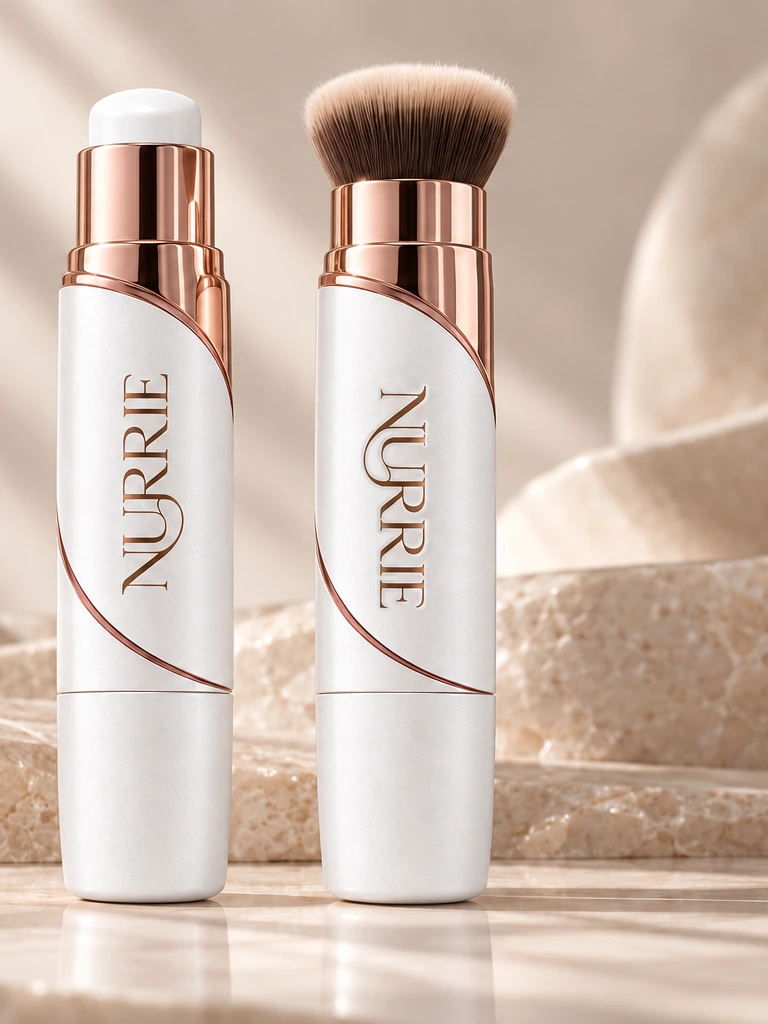
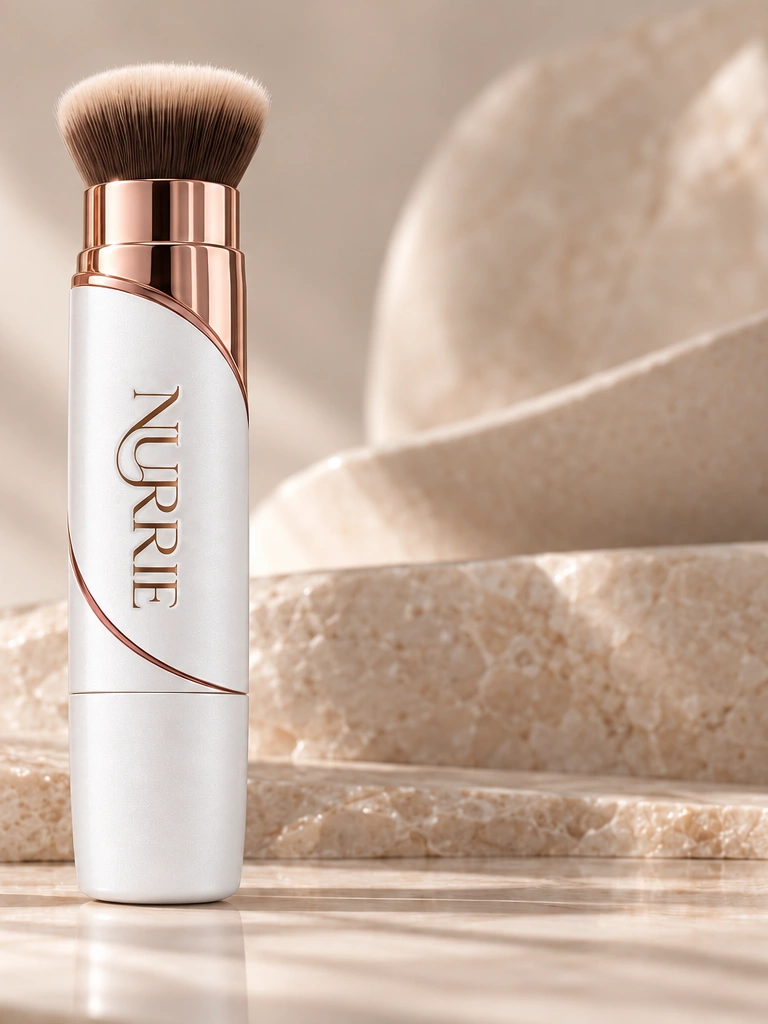
fix: resolve hero 3D visibility, separate ritual macro photography, and synchronize turned-down brush branding

diff --git a/components/NurrieHome.tsx b/components/NurrieHome.tsx
@@ -136,13 +136,13 @@ export default function NurrieHome() {
 
           <section className="ritual-editorial" id="the-ritual" aria-labelledby="ritual-heading">
             <div className="ritual-portrait" data-ritual={ritual}>
-              <div className={`ritual-frame ${ritual === 0 ? "is-current" : ""}`} aria-hidden={ritual !== 0}>
+              <div className={`ritual-frame ritual-formula ${ritual === 0 ? "is-current" : ""}`} aria-hidden={ritual !== 0}>
                 <img src="/images/ritual-swipe.webp" width={768} height={1024} alt="NURRIE white colour-changing foundation stick with rose-gold collar" loading="lazy" />
               </div>
-              <div className={`ritual-frame ${ritual === 1 ? "is-current" : ""}`} aria-hidden={ritual !== 1}>
-                <img src="/images/ritual-blend.webp" width={768} height={1024} alt="NURRIE built-in blending brush with rose-gold collar" loading="lazy" />
+              <div className={`ritual-frame ritual-brush ${ritual === 1 ? "is-current" : ""}`} aria-hidden={ritual !== 1}>
+                <img src="/images/ritual-blend.webp" width={768} height={1024} alt="NURRIE built-in blending brush with rose-gold collar and turned-down branding" loading="lazy" />
               </div>
-              <div className={`ritual-frame ${ritual === 2 ? "is-current" : ""}`} aria-hidden={ritual !== 2}>
+              <div className={`ritual-frame ritual-be ${ritual === 2 ? "is-current" : ""}`} aria-hidden={ritual !== 2}>
                 <img
                   src="/images/editorial-portrait-cocoa.webp"
                   srcSet="/images/editorial-portrait-cocoa-640.webp 640w, /images/editorial-portrait-cocoa.webp 1122w"

diff --git a/app/living.css b/app/living.css
@@ -23,34 +23,13 @@
   transform: translateZ(0);
 }
 
-/* Atmospheric photographic emergence: seamless crossfade with luxury vignette */
-.cover-portrait {
-  position: absolute;
-  inset: 0;
-  opacity: var(--portrait-opacity, 0);
-  transition: opacity 0.4s ease-out;
-  z-index: 0;
-  pointer-events: none;
+/* Pure Architectural 3D Living Stage: Luminous Ivory Ground with Radiant Focus */
+.living-stage {
+  position: relative;
+  width: 100vw;
+  height: 100vh;
+  background: radial-gradient(circle at 55% 45%, #faf8f5 0%, #f2eee7 65%, #eae3d8 100%);
   overflow: hidden;
-}
-
-.cover-portrait img {
-  width: 100%;
-  height: 100%;
-  object-fit: cover;
-  object-position: 80% center;
-  transform: scale(calc(1.06 - var(--cover-progress) * 0.05));
-  will-change: transform;
-  filter: brightness(0.92) contrast(1.04);
-}
-
-.cover-portrait::after {
-  content: "";
-  position: absolute;
-  inset: 0;
-  background: radial-gradient(circle at 75% 50%, rgba(52, 35, 28, 0.12) 0%, rgba(52, 35, 28, 0.75) 100%),
-    linear-gradient(to right, rgba(52, 35, 28, 0.82) 0%, rgba(52, 35, 28, 0.35) 48%, transparent 72%),
-    linear-gradient(to bottom, rgba(52, 35, 28, 0.35) 0%, transparent 40%, rgba(52, 35, 28, 0.68) 100%);
 }
 
 .living-nav {
@@ -557,8 +536,19 @@
   width: 100%;
   height: 100%;
   object-fit: cover;
-  object-position: center 20%;
   border-radius: 2px;
+}
+
+.nurrie-living .ritual-formula img {
+  object-position: 62% center;
+}
+
+.nurrie-living .ritual-brush img {
+  object-position: 36% center;
+}
+
+.nurrie-living .ritual-be img {
+  object-position: center 20%;
 }
 
 /* ==========================================================================

diff --git a/components/LivingCover.tsx b/components/LivingCover.tsx
@@ -44,9 +44,6 @@ export default function LivingCover() {
     refresh.current();
     if (section.current) {
       section.current.style.setProperty("--cover-progress", String(p));
-      // Smooth, natural photographic emergence instead of a harsh split-screen cut
-      const portraitOpacity = p < 0.32 ? 0 : Math.min(1, (p - 0.32) / 0.42);
-      section.current.style.setProperty("--portrait-opacity", String(portraitOpacity));
     }
     setPhase(p < 0.33 ? 0 : p < 0.68 ? 1 : 2);
   }, []);
@@ -100,10 +97,6 @@ export default function LivingCover() {
   return (
     <section ref={section} className="living-cover" data-phase={phase} aria-label="White. Blend. You. The NURRIE foundation story">
       <div className="living-stage">
-        <div className="cover-portrait" aria-hidden="true">
-          <img src="/images/campaign-portrait-wide-v5.webp" width={1672} height={941} alt="" decoding="async" />
-        </div>
-
         <header className="living-nav">
           <a className="living-logo" href="/" aria-label="NURRIE home">
             NURRIE

diff --git a/components/CoverScene.tsx b/components/CoverScene.tsx
@@ -74,8 +74,8 @@ function Sculpture(props: Props) {
     const normalZ = -0.34 + Math.sin(p * Math.PI) * 0.10;
     const targetZ = isMacro ? (macroBullet ? -0.12 : 0.14) : normalZ;
 
-    // Positioned in center-left so it stays completely clear of the model's portrait and ear
-    const normalX = phone ? 0 : -viewport.width * 0.13;
+    // Beautifully balanced in the open visual field to complement the chapter copy on the left
+    const normalX = phone ? 0 : viewport.width * 0.08;
     const targetX = isMacro ? 0 : normalX;
     const targetY = isMacro
       ? (macroBullet ? -0.42 : 0.48)
@@ -93,7 +93,7 @@ function Sculpture(props: Props) {
   });
 
   return (
-    <group ref={group} scale={baseScale} position={[phone ? 0 : -viewport.width * 0.13, phone ? 0.02 : 0.03, 0.5]} rotation={[0.08, 0.12, -0.34]}>
+    <group ref={group} scale={baseScale} position={[phone ? 0 : viewport.width * 0.08, phone ? 0.02 : 0.03, 0.5]} rotation={[0.08, 0.12, -0.34]}>
       <ProductBody opening={props.progress} capSeparation={0.9} />
     </group>
   );

diff --git a/components/KineticScene.tsx b/components/KineticScene.tsx
@@ -208,7 +208,7 @@ export function ProductBody({ brush = false, opening, hideCap = false, capSepara
       )}
       <SceneBoundary fallback={null}>
         <Suspense fallback={null}>
-          <group position={[0.025, -0.2, 0.435]} rotation={[0, 0, -Math.PI / 2]}>
+          <group position={[0.025, -0.2, 0.435]} rotation={[0, 0, brush ? Math.PI / 2 : -Math.PI / 2]}>
             <Center>
               <Text3D font={FONT} size={0.195} height={0.002} curveSegments={8} letterSpacing={0.012}>
                 NURRIE
